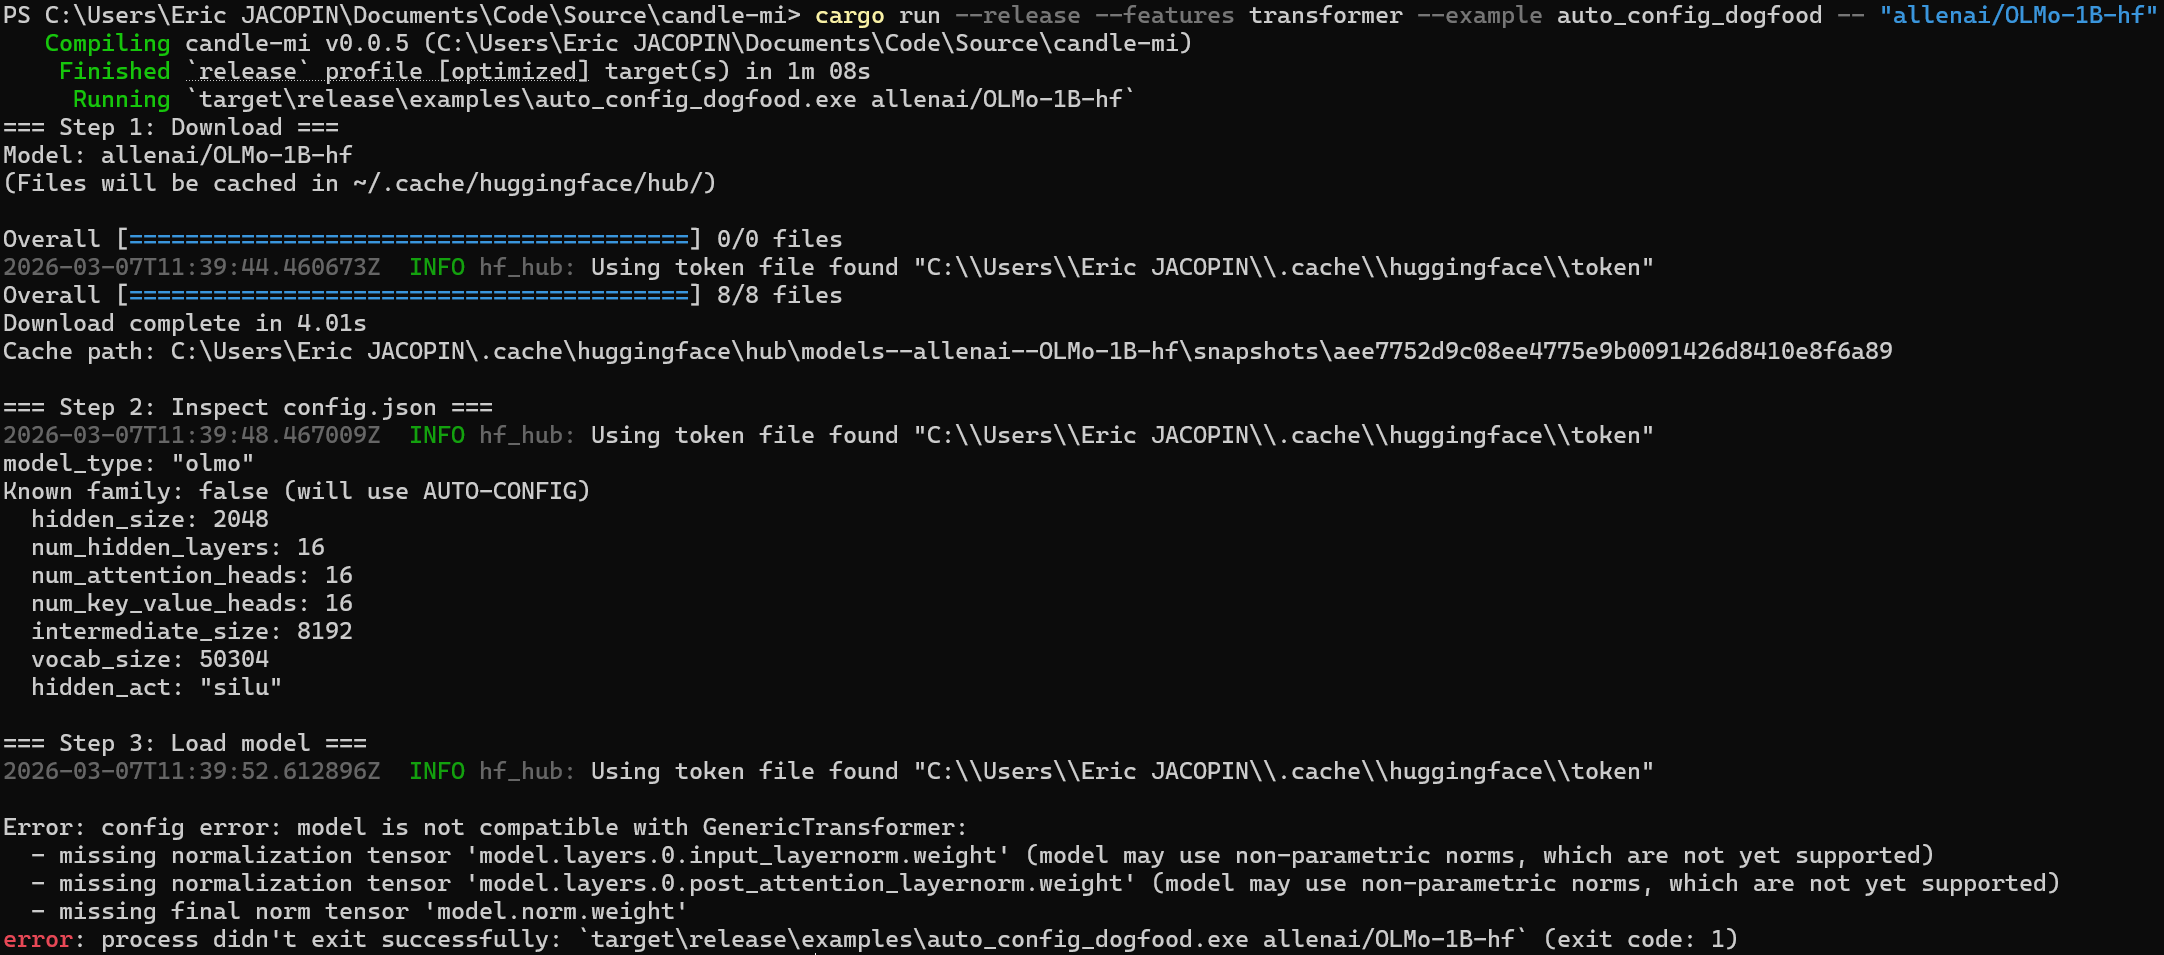
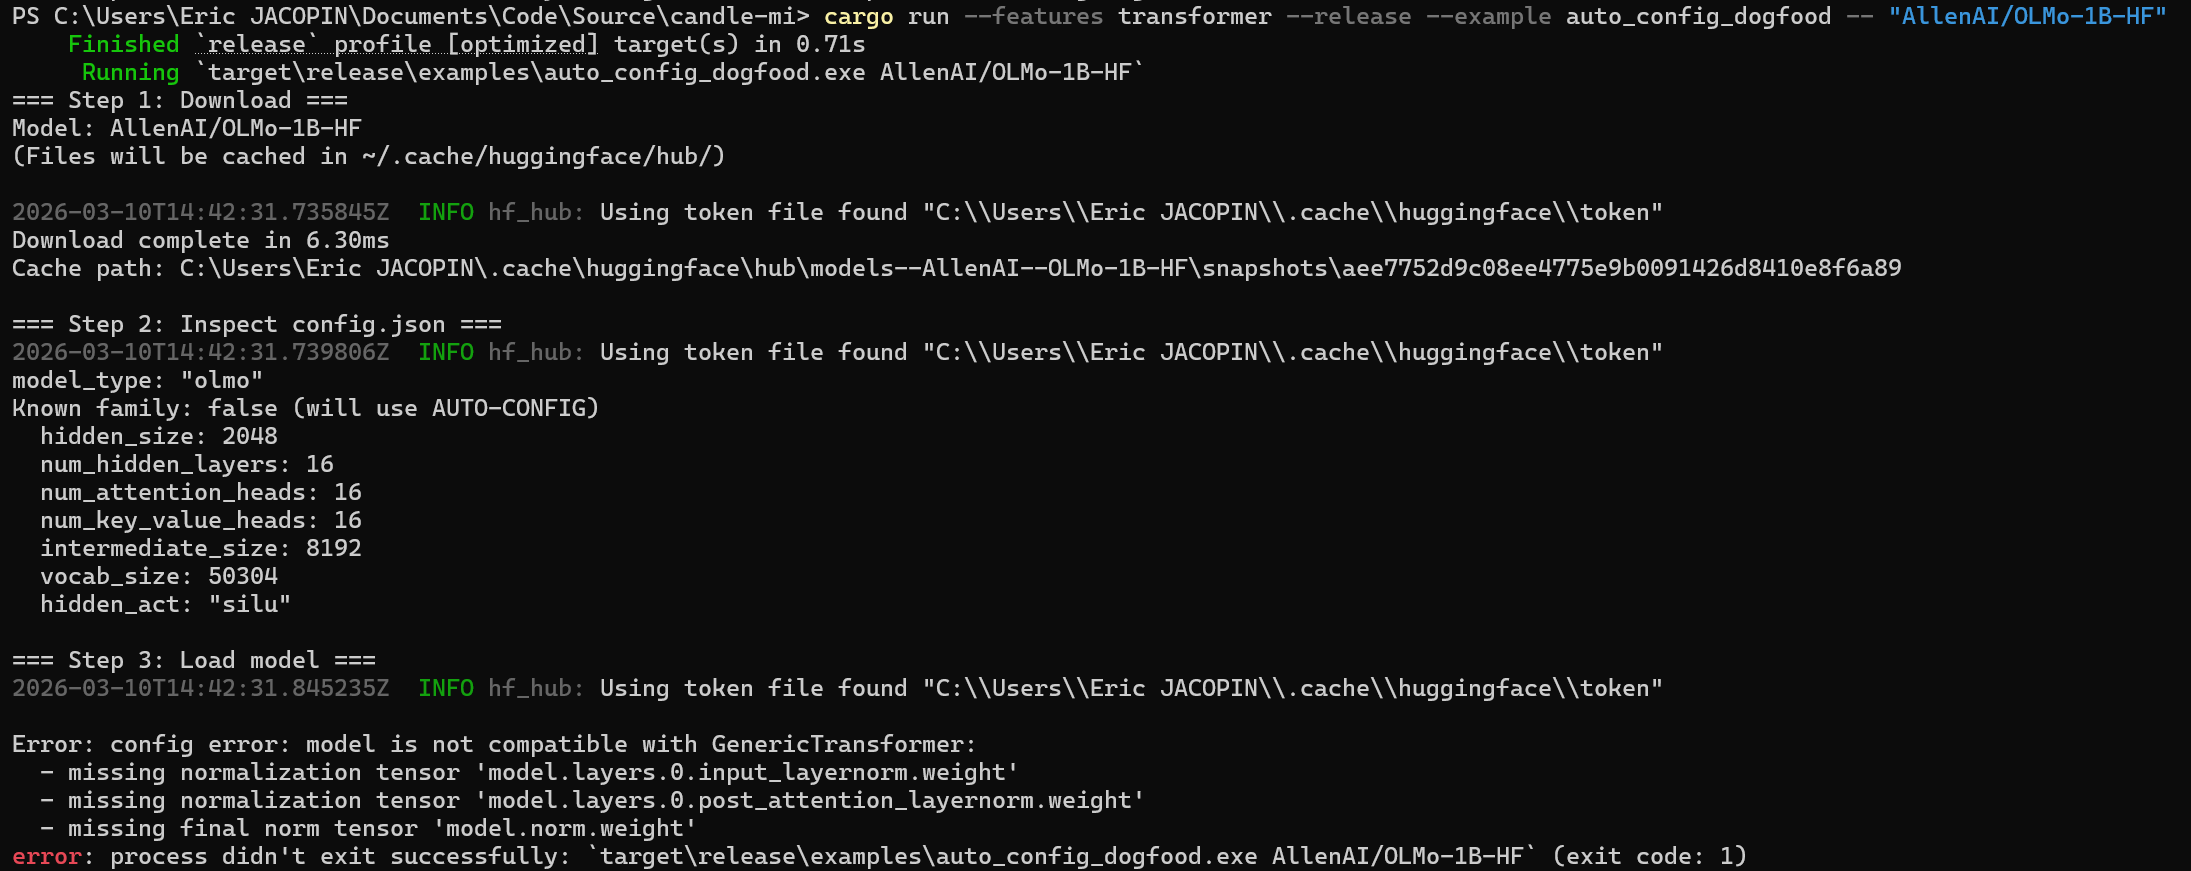
docs: add Pythia screenshot and fix progress bar artifacts in dogfood
- Remove indicatif progress bars from auto_config_dogfood to avoid
  terminal artifacts when files are already cached
- Add Pythia 1.4B screenshot showing actionable error diagnostics
- Add Pythia running command and output section to examples README

Changed region(s): [[0.0, 0.0, 0.9908, 1.0]]

diff --git a/examples/auto_config_dogfood.rs b/examples/auto_config_dogfood.rs
@@ -38,16 +38,26 @@ fn run(model_id: &str) -> candle_mi::Result<()> {
 }
 
 /// Download the model and measure elapsed time.
+///
+/// Uses `hf_fetch_model` directly (without indicatif progress bars) to
+/// avoid terminal artifacts when files are already cached.
 fn download_phase(model_id: &str) -> candle_mi::Result<()> {
     eprintln!("=== Step 1: Download ===");
     eprintln!("Model: {model_id}");
     eprintln!("(Files will be cached in ~/.cache/huggingface/hub/)\n");
 
     let t0 = std::time::Instant::now();
-    let path = candle_mi::download_model_blocking(model_id.to_owned())?;
+    let outcome = hf_fetch_model::download_files_blocking(model_id.to_owned())
+        .map_err(|e| candle_mi::MIError::Download(e.to_string()))?;
     let elapsed = t0.elapsed();
     eprintln!("Download complete in {elapsed:.2?}");
-    eprintln!("Cache path: {}\n", path.display());
+    let path = outcome.into_inner();
+    // BORROW: `path` is a HashMap; grab any value to show the cache root
+    if let Some(first) = path.values().next() {
+        if let Some(snapshot_dir) = first.parent() {
+            eprintln!("Cache path: {}\n", snapshot_dir.display());
+        }
+    }
     Ok(())
 }
 

diff --git a/examples/README.md b/examples/README.md
@@ -44,6 +44,9 @@ cargo run --release --features transformer --example auto_config_dogfood -- "met
 # Auto-config dogfooding — failure (unsupported architecture)
 cargo run --release --features transformer --example auto_config_dogfood -- "allenai/OLMo-1B-hf"
 
+# Auto-config dogfooding — failure with actionable hints (non-standard naming)
+cargo run --release --features transformer --example auto_config_dogfood -- "EleutherAI/pythia-1.4b"
+
 # Greedy text generation — single model (recommended for 7B+ to avoid OOM)
 cargo run --release --features transformer --example generate -- "meta-llama/Llama-3.2-1B"
 
@@ -381,6 +384,16 @@ OLMo-1B fails the compatibility check because its weight names
 match the normalisation tensor patterns that `GenericTransformer` expects.
 candle-mi currently supports 7 model families: LLaMA, Qwen2, Gemma, Gemma 2,
 Phi-3, Mistral, and StarCoder2.
+
+**Failure with actionable diagnostics** on Pythia 1.4B (non-standard naming):
+
+![auto_config_dogfood failure on Pythia 1.4B with actionable hints](screenshots/auto_config_pythia.png)
+
+Pythia uses the `gpt_neox.layers.{i}` weight prefix instead of the
+HF-standard `model.layers.{i}`. The error message now shows which tensors
+*were* found for each expected category (embedding, norm, attention, MLP),
+detects the GPT-NeoX / Pythia naming convention, and points to Phase 9
+(tensor name remapping) for planned support.
 
 ### Example output: `figure13_planning_poems`
 
